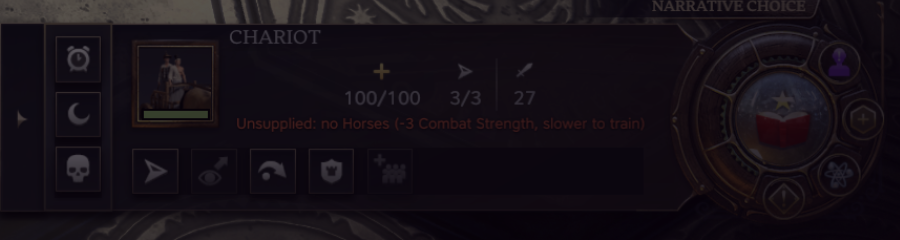
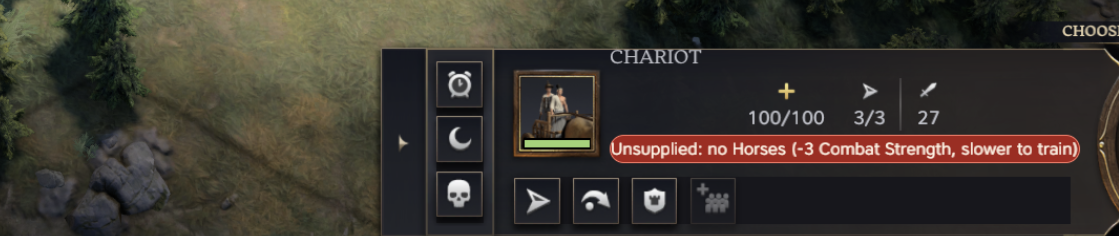
docs: the README's panel image from a clean game, with the pill
The Chariot without Horses in a game with every other mod off, the panel line as the red status pill; the verification log records the capture. Watched.

diff --git a/docs/verification-runs.md b/docs/verification-runs.md
@@ -487,6 +487,7 @@ byte for byte), as the owner asked for the release images; the Japanese ones are
 | `p15-age-1` (soak `sr-gate-age`, `devtools/soak/sr-gate-age-game.js`, Antiquity start, seed 4242, the short-age probe, Training set through the harness, every other mod off) | Antiquity to Exploration: the data in each age, the lock on the age's gated unit (Chariot, then Courser), the carried unit | Antiquity: the Training parameters and 22 columns; the Wheel unlocked; the Chariot refused without Horses, allowed with one, refused again the same turn the tile was cleared. The age ended after turn 10 and the game went into Exploration by itself; `Modding.log`: `-exploration`, `-exploration-standard`, `-exploration-curve` and `-exploration-gate-training` at the transition, no Antiquity group. Exploration turn 1: the same parameters, 45 columns, the Courser and the Catapult listed as locked by the query rewrite; the Courser refused, allowed with one Horses, refused again on the clear (3 of 3 checks). The carried Spearman came through as the new civilization's Samurai (the transition's own conversion), so its panel line was not read. Exploration did not end within 30 turns in this run (see `p15-age-2`) | watched |
 | `p15-age-2` (soak `sr-gate-age2`, the same script, Exploration start) | Exploration to Modern | Exploration turn 1: the Training parameters, 45 columns, the Courser and Catapult listed as locked; the Courser refused, allowed with one Horses, refused again on the clear. The age ended at 10 of 10 after turn 10 and the game went into Modern by itself; `Modding.log`: `-modern`, `-modern-standard`, `-modern-curve` and `-modern-gate-training` at the transition, no Exploration group. Modern turn 1: the same parameters, 43 columns, the Field Cannon and Mortar listed as locked; the Field Cannon refused without Niter, allowed with one, refused again on the clear (3 of 3). The carried Man-at-Arms came through as a Line Infantry (the game's conversion), so no carried gated unit's panel was read. No crash or hang in either run | watched |
 | `p15-ai-modern` (lab game, Modern, Training, seed 4242, the advanced start marked completed, 60 turns ended as a player would) | The independents' units, each AI's units, resources and production, every ten turns | No crash, no hang; 61 re-check lines, no warning or error of the mod's. Every AI held 1 to 5 Niter and 1 to 9 Oil from the start and built with them: the Ottomans 13 Landships (Oil) by turn 61, Hawaii 3 Field Guns and a Heavy Artillery (Niter), Persia a Field Gun and a Heavy Artillery; the rest Riflemen, Cuirassiers, frigates, settlers, buildings and wonders; no queue stuck. The 12 independents built Field Cannons, Field Guns and frigates throughout (11 Field Cannons at 31), the gate never reaching them | watched |
+| `p15-ui-clean-off` (capture game 4, Antiquity, Off, every other mod off) | A Chariot placed with no Horses, selected; the README's top image | 27 melee; the panel's red pill "Unsupplied: no Horses (-3 Combat Strength, slower to train)" with no gate tail; [screenshot](screenshots/unit-panel-en.png). Two earlier captures of the same showed Steam's overlay notice over the panel (it appears when the window first comes to the front after launch); the third was taken twenty seconds after bringing the window forward | watched |
 | `p15-gate-modern` (game 4, Modern, Training, Russian, Homo Ludens, Mod Commons and Readable Tooltips off) | The groups and the data; the list; a Tank placed; level 2 | Groups `modern-gate-training` with the 1.0 ones; the mod's own parameters; the column on 43 units; the index on. Mortar and Field Cannon greyed with "Заблокирован: нет ресурса «Селитра»", once each with Mod Commons off; the Line Infantry free. Panel "Без снабжения: нет ресурса «Нефть» (-3 к боевой мощи, обучение дольше). Новые обучить нельзя." Callout, after the 1.0 one on the same unit: "ЗАБЛОКИРОВАННЫЙ ОТРЯД" / "Отряду «Танк» нужен ресурс «Нефть», а у вас его нет: его нельзя обучить или купить, пока вы не получите единицу ресурса. ..." Resource line (module) "Нужен для обучения: Дредноут, Линкор, Сухопутный корабль и ещё 1." | watched |
 | `p15-ui-notify-ru` (game 4) | Niter held at a turn start, then cleared, no Niter unit in the field | Turn 3: "Снабжение потеряно: Селитра" / "Снабжение потеряно: нет ресурса «Селитра». Пока вы снова не получите ресурс «Селитра», нуждающиеся в нём отряды получают -3 к боевой мощи и обучаются дольше. До тех пор новые обучить нельзя." | watched |
 | `p15-gate-reload` (soak `sr-gate-reload`, `devtools/soak/sr-gate-reload-game.js`, the game 1 save `SOAK-SR-GATE-G1` loaded from the main menu, every other mod off) | After the load: the data, the Legion's lock, the list item, the panel; one Iron; the clear; a roll | Turn 10 as saved: the Training groups' parameters and 22 columns; Legion and Horseman refused; the item greyed with the full sentence "Needs Iron: cannot be trained without it." (the game's own chooser has room for it); the panel line with its tail. One Iron: build and purchase allowed, "Needs Iron (you have 1)."; cleared: refused the same turn; after the roll still refused. 3 of 3 checks passed; no death in the 60 s | watched |

diff --git a/README.md b/README.md
@@ -7,7 +7,7 @@ is back a turn later. Past six, where the game's own bonus stops, the count keep
 
 ![The unit panel of a Chariot with no Horses](docs/screenshots/unit-panel-en.png)
 
-*A Chariot with no Horses: 27 Combat Strength instead of 30, and the line under its stats says why.*
+*A Chariot with no Horses: 27 Combat Strength instead of 30, and the pill under its stats says why.*
 
 Single-player. In multiplayer, losing a resource does not bring the penalty back until that player gains a resource.
 
